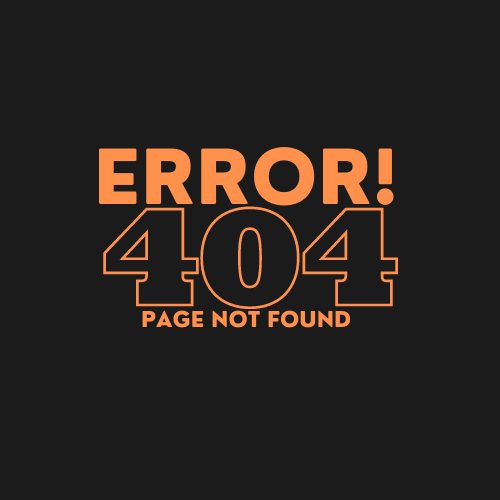
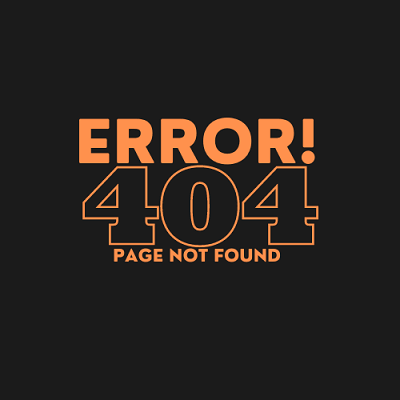
Resized image and fixed containment issue

diff --git a/static/css/base.css b/static/css/base.css
@@ -153,8 +153,8 @@ label {
 
 /* Error Pages */
 #error-img {
-    max-height: 400px;
-    max-width: 400px;
+    height: 100%;
+    width: 100%;
 }
 
 /* Media Queries */
